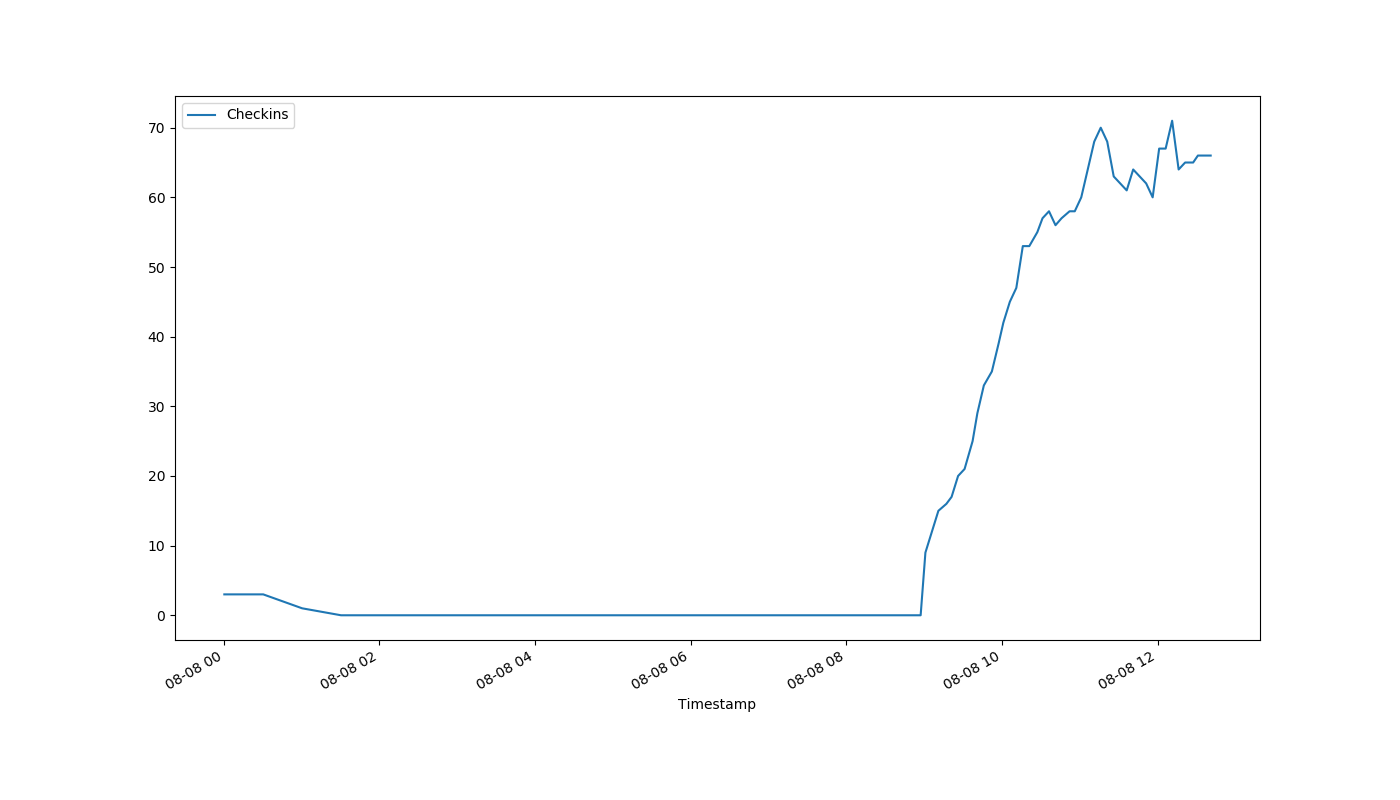
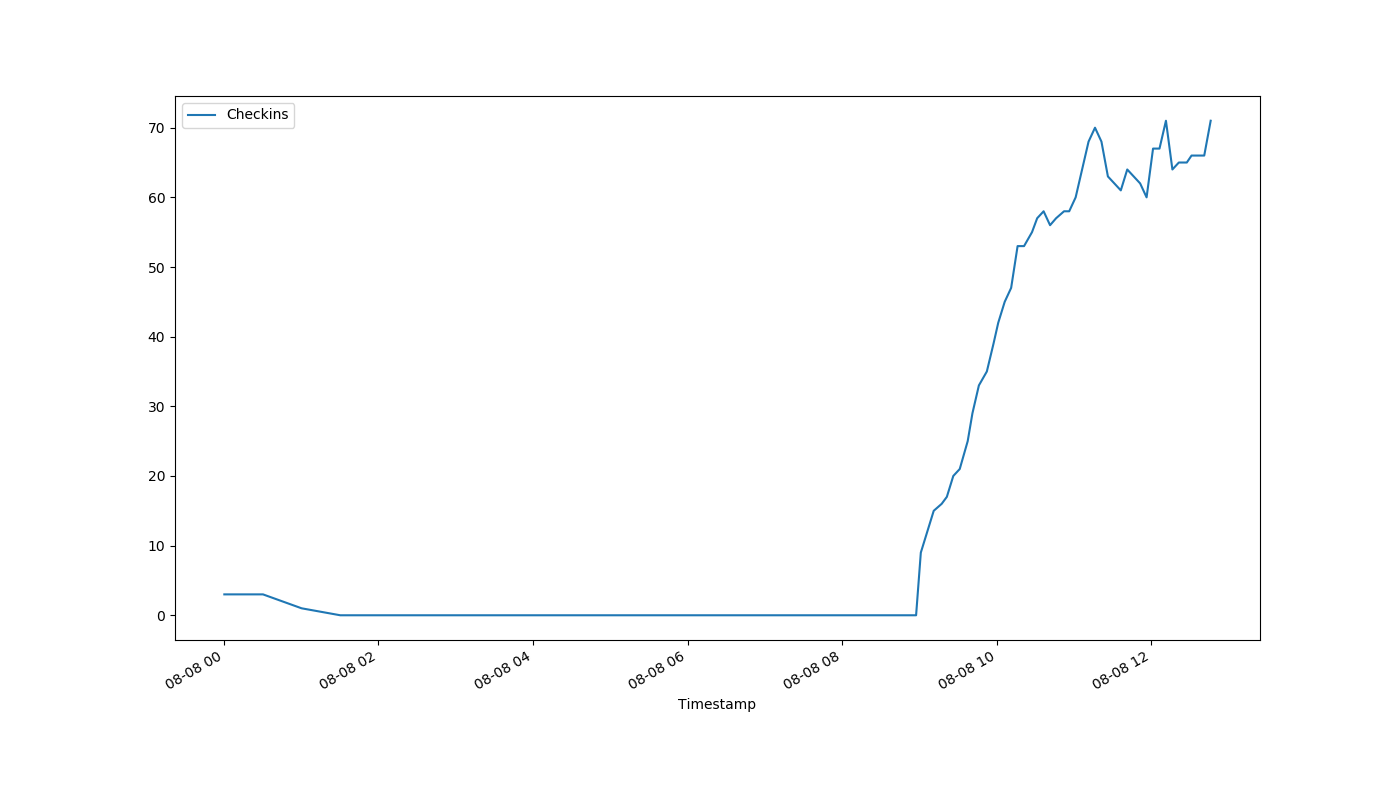
auto-Aug-08-12:47:51

diff --git a/index.html b/index.html
@@ -1,1 +1,1 @@
-<!DOCTYPE html><html><head><meta http-equiv="refresh" content="30"><link rel='stylesheet' href='holmcurrent.css'></head><body><p id='count'>66</p><div id='graph-wrap'><img id='graph' src='holmgraph-Aug-08.png'></div><p id='updated'>Last updated 12:41:12 / 12:41:00</p></body></html>
+<!DOCTYPE html><html><head><meta http-equiv="refresh" content="30"><link rel='stylesheet' href='holmcurrent.css'></head><body><p id='count'>71</p><div id='graph-wrap'><img id='graph' src='holmgraph-Aug-08.png'></div><p id='updated'>Last updated 12:46:12 / 12:46:00</p></body></html>
